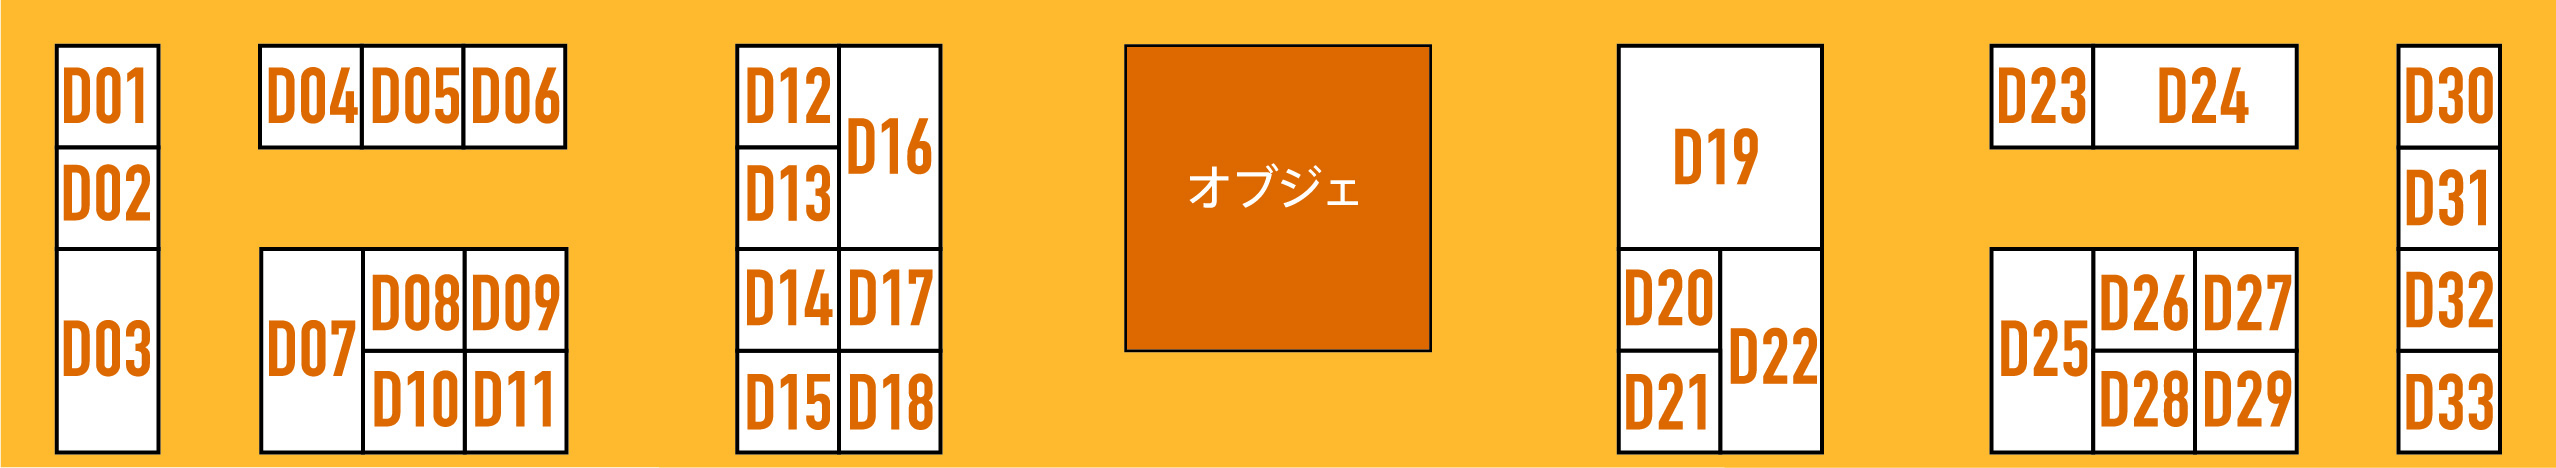
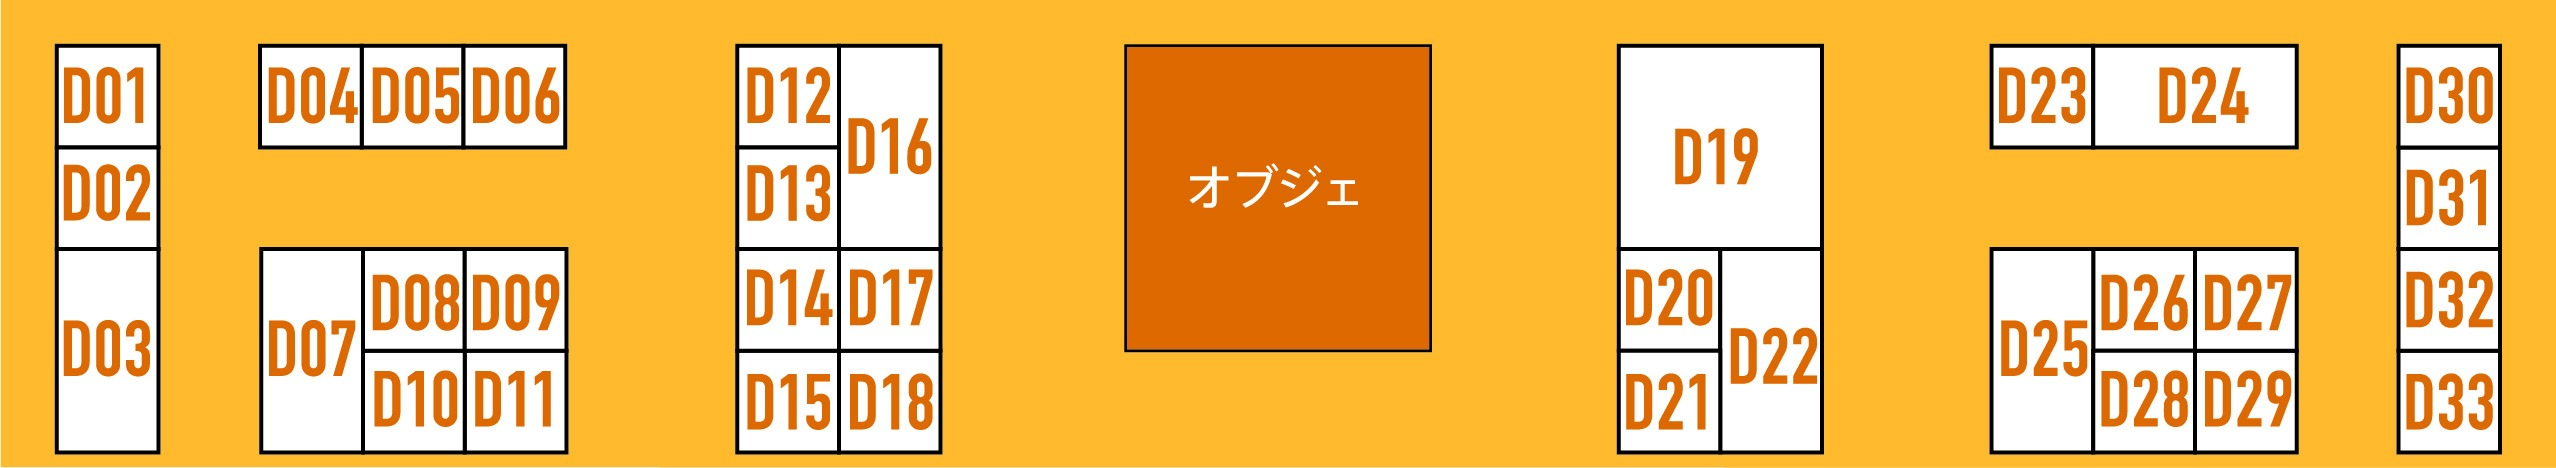
perf: map3.jpgをRGB最適化して軽量化およびヘルプ文言・技術スタックを更新

diff --git a/src/HelpBaseline.tsx b/src/HelpBaseline.tsx
@@ -35,7 +35,7 @@ export const HelpModal: React.FC<{
           </button>
         </div>
         <div className="help-content">
-          <span style={{ color: '#3b82f6', fontWeight: 'bold' }}>※ホーム画面に追加すると一発起動できます</span><br /><br />
+          <span style={{ color: '#3b82f6', fontWeight: 'bold' }}>※一度読み込めば電波が届かない場所でも使えます</span><br /><br />
           <b>1. マップ切替</b>: 上部のタブでフロア切替<br />
           <b>2. 検索</b>: ブース番号や名称で検索<br />
           <b>3. ジャンプボタン</b>: <span style={{ display: 'inline-block', width: '16px', height: '16px', borderRadius: '50%', background: '#ef4444', border: '1.5px solid white', boxShadow: '0 1px 2px rgba(0,0,0,0.2)', verticalAlign: 'middle', marginRight: '1px' }}></span><span style={{ display: 'inline-block', width: '16px', height: '16px', borderRadius: '50%', background: '#3b82f6', border: '1.5px solid white', boxShadow: '0 1px 2px rgba(0,0,0,0.2)', verticalAlign: 'middle', marginRight: '4px' }}></span>対象に移動<br />
@@ -48,6 +48,7 @@ export const HelpModal: React.FC<{
           　▲：喫煙所<br />
           <b>7. 地図操作</b>: ピンチでズーム、ドラッグで移動<br />
           <b>8. <svg viewBox="0 0 24 24" width="20" height="20" fill="none" style={{ display: 'inline-block', verticalAlign: 'middle', marginRight: '2px' }}><path d="M4 0V24M20 0V24M0 4H24M0 20H24" stroke="#94a3b8" strokeWidth="1.5" /><circle cx="12" cy="12" r="3.5" fill="#3b82f6" /></svg> ボタン</b>: 全体マップ表示<br /><br />
+          <span style={{ color: '#3b82f6', fontWeight: 'bold' }}>※ホーム画面に追加すると一発起動できます</span><br />
           ※Webアプリです、ブラウザキャッシュを約3MB使います、個人情報は一切収集してません
 
           <div style={{ marginTop: '16px', borderTop: '1px dashed #e2e8f0', paddingTop: '12px' }}>
@@ -76,9 +77,10 @@ export const HelpModal: React.FC<{
                   <li><b>Lucide React</b>: アイコン</li>
                   <li><b>Pillow (PIL)</b>: 画像処理用補助</li>
                 </ul>
-                <h4>インフラ・運用</h4>
+                <h4>インフラ・バックエンド</h4>
                 <ul>
-                  <li><b>Vercel</b>: ホスティング・高速化・利用解析</li>
+                  <li><b>Vercel</b>: 高速エッジホスティング・利用解析</li>
+                  <li><b>Google Apps Script (GAS)</b>: フィードバック受信用サーバーレス連携</li>
                   <li><b>GitHub</b>: ソースコード管理</li>
                 </ul>
                 <h4>AI アシスタント</h4>
